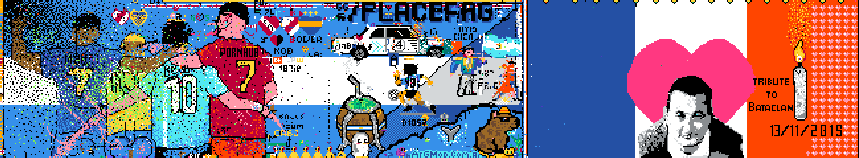
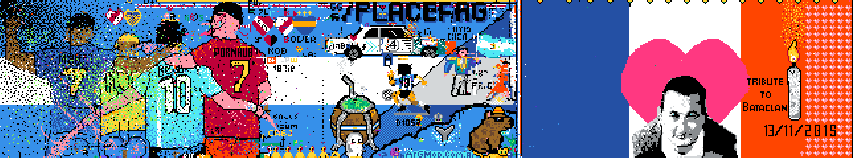
app.js

diff --git a/style.css b/style.css
@@ -36,9 +36,14 @@ li {
 
 a {
     font-size: 25px;
-    color: #fff;
+    color: #777;
     margin: 15px 0;
     text-decoration: none;
+    transition: color .5s ease-out;
+}
+
+a:hover {
+    color: #fff;
 }
 
 .subh1 {
@@ -72,8 +77,28 @@ h1 {
     margin-bottom: 250px;
 }
 
-.banderaPrincipal {
+.banderaPrincipalImage {
     flex: 1;
+    display: flex;
+    position: relative;
+}
+
+.banderaPrincipal1,
+.banderaPrincipal2 {
+    width: 100%;
+    border-radius: 10px;
+    transition: filter 1s ease;
+    border: #111 solid 2px;
+}
+
+.banderaPrincipal2 {
+    position: absolute;
+    top: 0;
+    left: 0;
+}
+
+.blur-effect {
+    filter: blur(15px);
 }
 
 .banderaPrincipalDescripcion {
@@ -115,6 +140,7 @@ h1 {
     width: 100%;
     margin-bottom: 20px;
 }
+
 h2 {
     display: flex;
     justify-content: center;
@@ -125,6 +151,7 @@ h2 {
     header {
         margin-bottom: 10%;
     }
+
     h1 {
         width: 300px;
     }
@@ -141,10 +168,16 @@ h2 {
         flex: 1;
     }
 }
+
 @media (max-width: 868px) {
     header {
         margin-bottom: 15%;
     }
+
+    a {
+        color: #fff;
+    }
+
     h1 {
         width: 300px;
     }
@@ -158,10 +191,12 @@ h2 {
         flex: 1;
     }
 }
+
 @media (max-width: 450px) {
     header {
         margin-bottom: 15%;
     }
+
     h1 {
         width: 200px;
     }
@@ -175,8 +210,9 @@ h2 {
         flex: 1;
     }
 }
+
 @media (max-width: 400px) {
-        .banderaPrincipal {
+    .banderaPrincipal {
         flex: 1;
         margin-top: 100px;
     }

diff --git a/index.html b/index.html
@@ -31,8 +31,10 @@
             nos reunimos a dejar nuestra bandera plasmada en r/place, durante día y noche estuvimos colocando píxeles
             defendiéndonos de otras comunidades y al mismo tiempo haciendo alianzas con comunidades, países y streamers.
         </p>
-        <img class="banderaPrincipal" src="banderaPrincipal.png"
-            alt="bandera argentina r/place - r/place - reddit place">
+        <div class="banderaPrincipalImage">
+            <img class="banderaPrincipal1" src="banderaPrincipal1.png" alt="bandera argentina r/place - r/place - reddit place">
+            <img class="banderaPrincipal2" src="banderaPrincipal2.png" alt="bandera argentina r/place - r/place - reddit place">
+        </div>
     </div>
     <span class="sticky">
         <h2>Banderas 2023</h2>
@@ -58,6 +60,7 @@
             <img class="bandera" src="./bandera6.png" alt="">
         </div>
     </div>
+    <script src="./app.js"></script>
 </body>
 
 </html>

diff --git a/app.js b/app.js
@@ -1,0 +1,10 @@
+const banderaPrincipal2 = document.querySelector('.banderaPrincipal2');
+const banderaPrincipal = document.querySelector('.banderaPrincipal1');
+
+banderaPrincipal2.addEventListener('mouseover', () => {
+  banderaPrincipal.classList.add('blur-effect');
+});
+
+banderaPrincipal2.addEventListener('mouseout', () => {
+  banderaPrincipal.classList.remove('blur-effect');
+});
